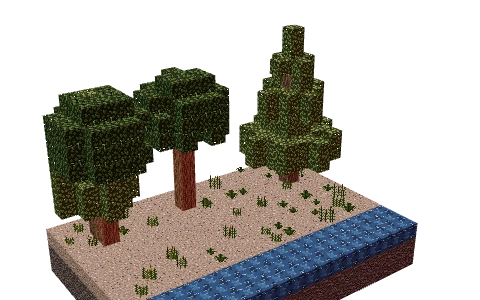
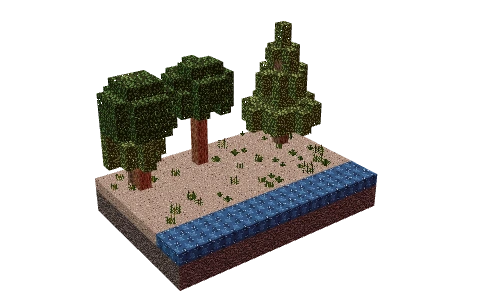
Fotos das eras enquadradas pelo diorama inteiro (chão, árvores e animais), sem corte

diff --git a/src/viewer.js b/src/viewer.js
@@ -94,10 +94,18 @@ export class Thumbnailer{
   const maps=new Set();group.traverse(o=>{for(const m of [].concat(o.material||[]))if(m.map)maps.add(m.map)});
   await Promise.all([...maps].map(t=>t.image?.complete!==false&&t.image?Promise.resolve():new Promise(r=>{const i=setInterval(()=>{if(t.image){clearInterval(i);r()}},30)})));
   this.scene.add(group);group.updateMatrixWorld(true);
-  const box=new THREE.Box3().setFromObject(slab),center=box.getCenter(new THREE.Vector3()),size=box.getSize(new THREE.Vector3());
-  this.renderer.setSize(480,300,false);this.camera.aspect=1.6;this.camera.fov=26;this.camera.updateProjectionMatrix();
-  this.camera.position.copy(center).add(new THREE.Vector3(-.55,.42,.75).setLength(Math.max(size.x,size.z)*1.95));this.camera.lookAt(center.x,center.y+1,center.z);
-  this.renderer.render(this.scene,this.camera);
+  // Frame the whole diorama (ground, trees and animals): move the camera back until every corner of its box is
+  // inside the picture with a margin, then centre it, so nothing is ever cut off.
+  const box=new THREE.Box3().setFromObject(group),center=box.getCenter(new THREE.Vector3()),size=box.getSize(new THREE.Vector3());
+  this.renderer.setSize(480,300,false);this.camera.aspect=1.6;this.camera.fov=26;this.camera.clearViewOffset();this.camera.updateProjectionMatrix();
+  const dir=new THREE.Vector3(-.55,.42,.75).normalize(),corners=[];for(let i=0;i<8;i++)corners.push(new THREE.Vector3(i&1?box.max.x:box.min.x,i&2?box.max.y:box.min.y,i&4?box.max.z:box.min.z));
+  let dist=Math.max(size.x,size.z)*1.95,lo,hi;
+  const measure=()=>{this.camera.position.copy(center).addScaledVector(dir,dist);this.camera.lookAt(center);this.camera.updateMatrixWorld();
+   lo=new THREE.Vector2(9,9);hi=new THREE.Vector2(-9,-9);for(const c of corners){const v=c.clone().project(this.camera);lo.min(v);hi.max(v)}
+   return Math.max(hi.x-lo.x,hi.y-lo.y)/2};
+  for(let i=0;i<10;i++)dist*=measure()/.94;
+  measure();this.camera.setViewOffset(480,300,(lo.x+hi.x)/2*240,-(lo.y+hi.y)/2*150,480,300);
+  this.renderer.render(this.scene,this.camera);this.camera.clearViewOffset();
   const blob=await new Promise(res=>this.renderer.domElement.toBlob(res,'image/webp',.92));
   this.scene.remove(group);for(const a of animals)a.dispose();
   this.renderer.setSize(360,240,false);this.camera.aspect=1.5;this.camera.fov=24;this.camera.updateProjectionMatrix();
